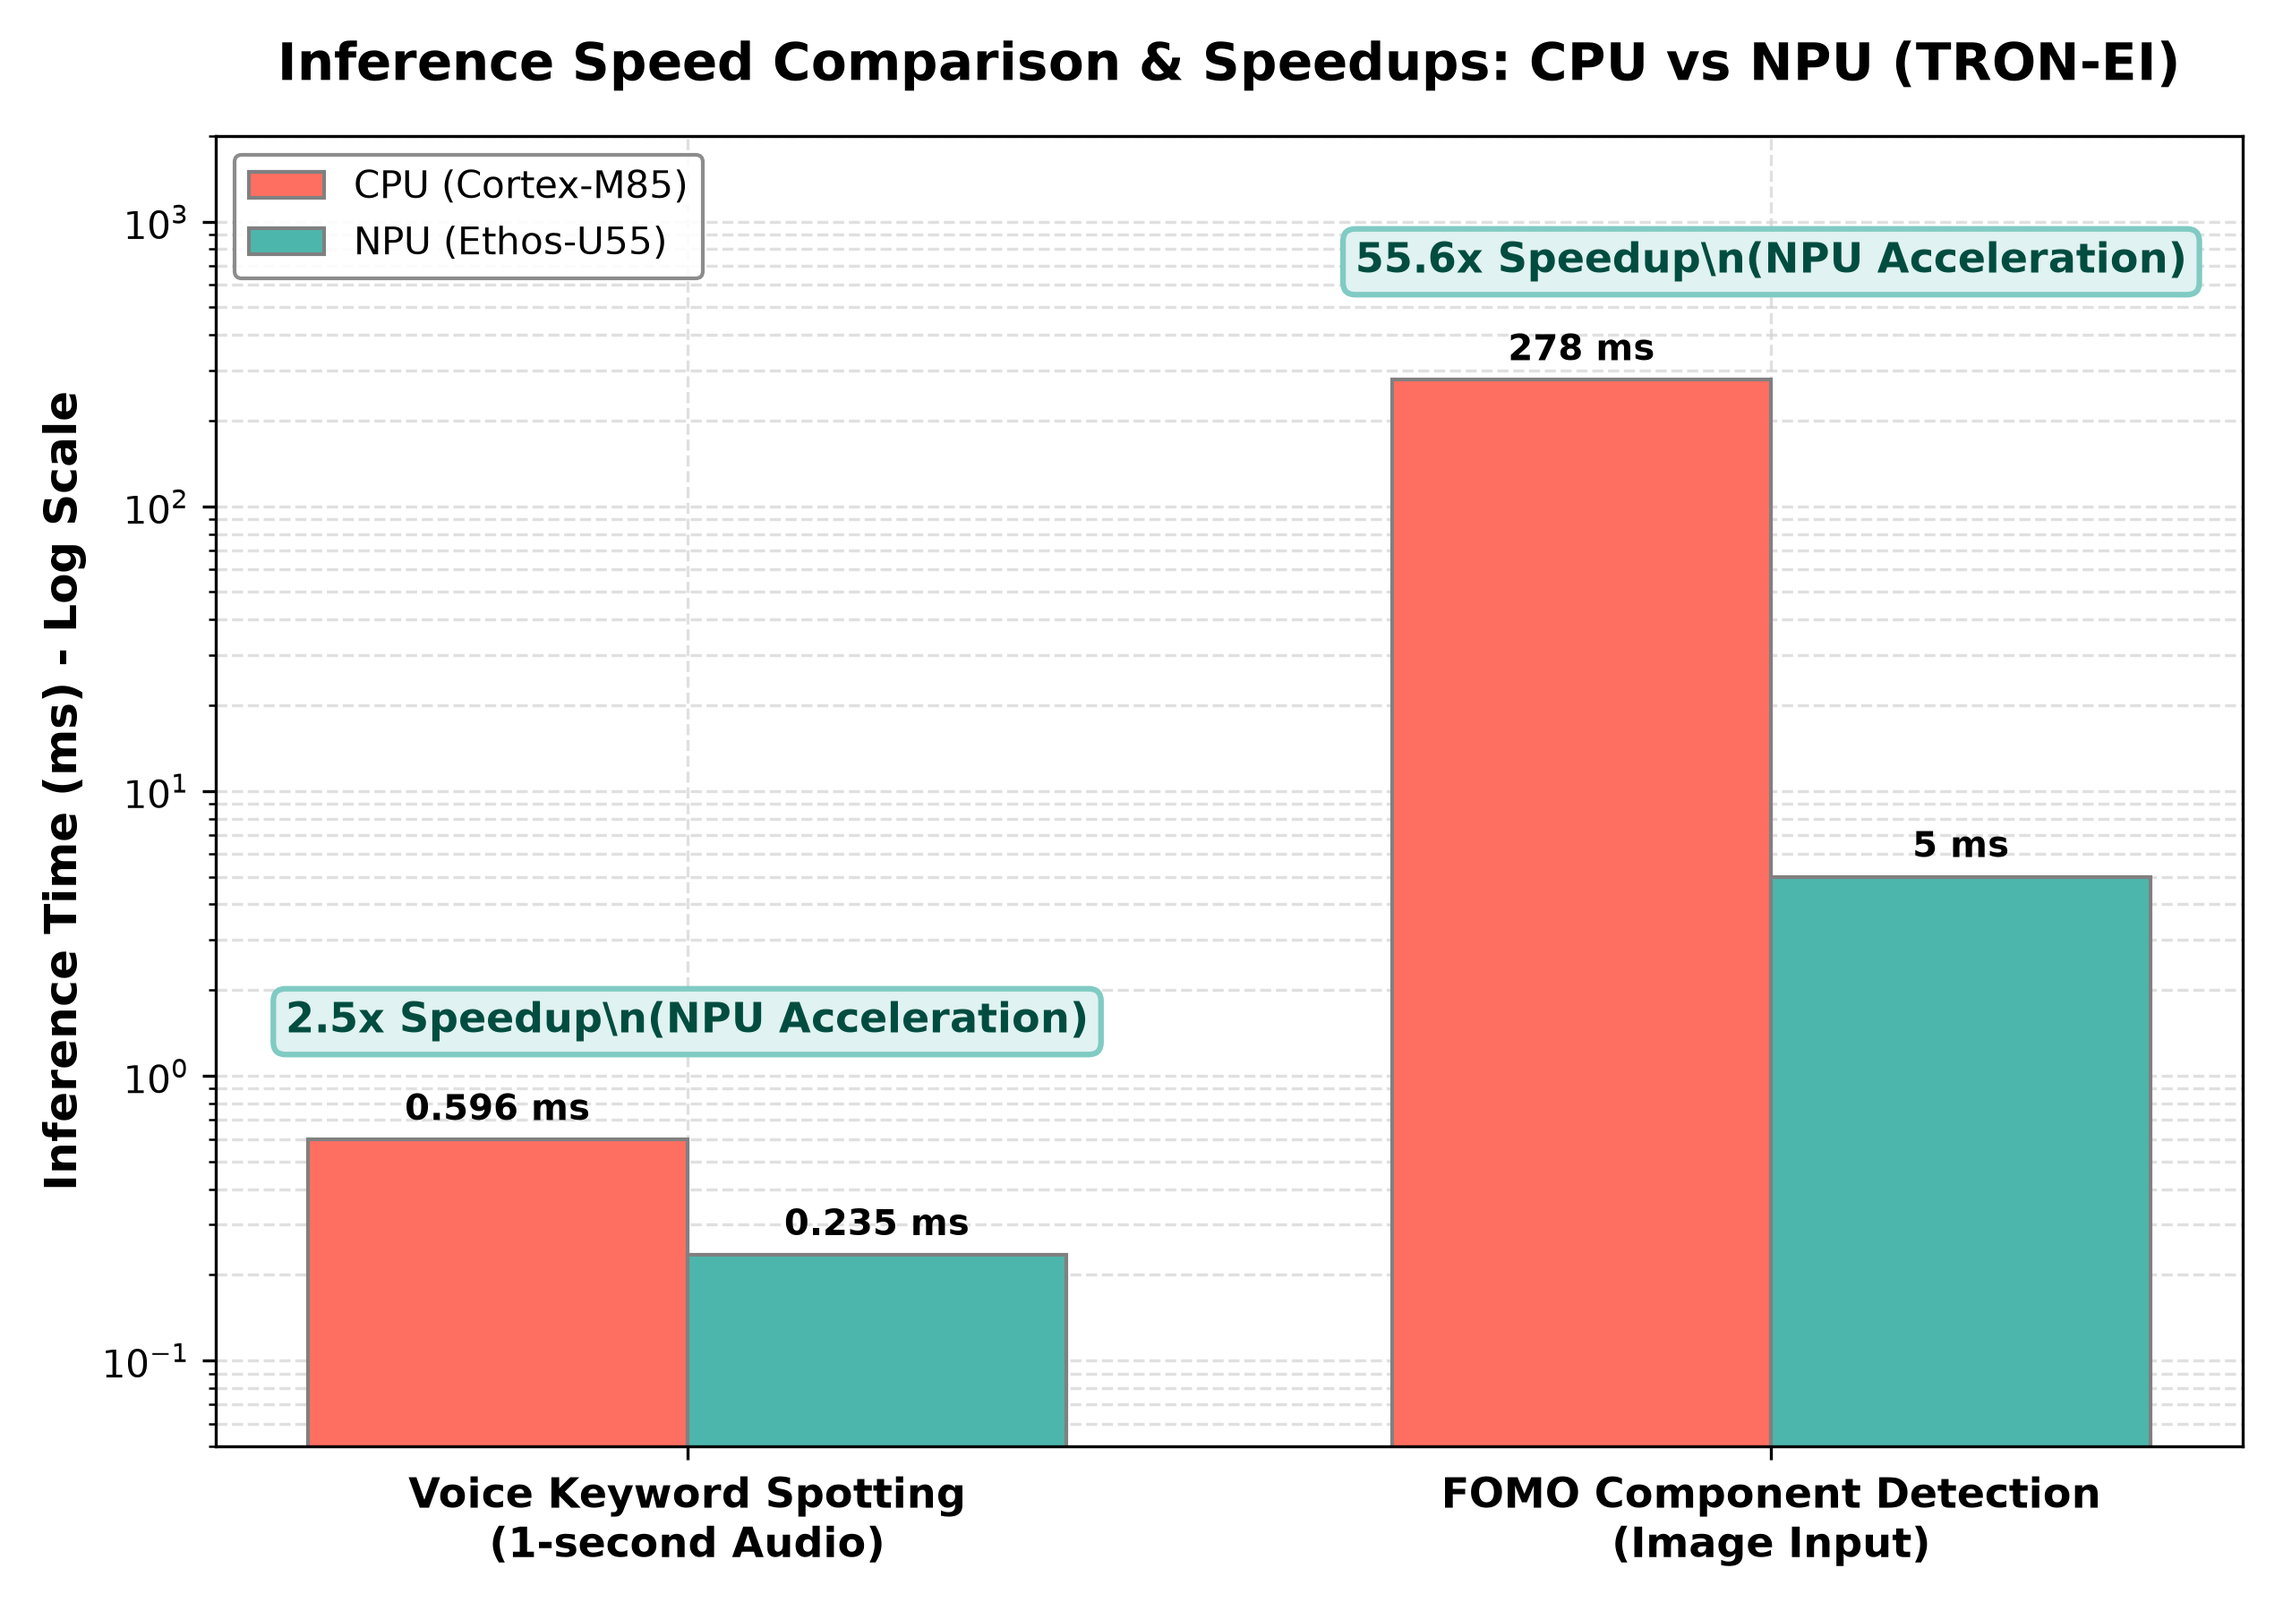
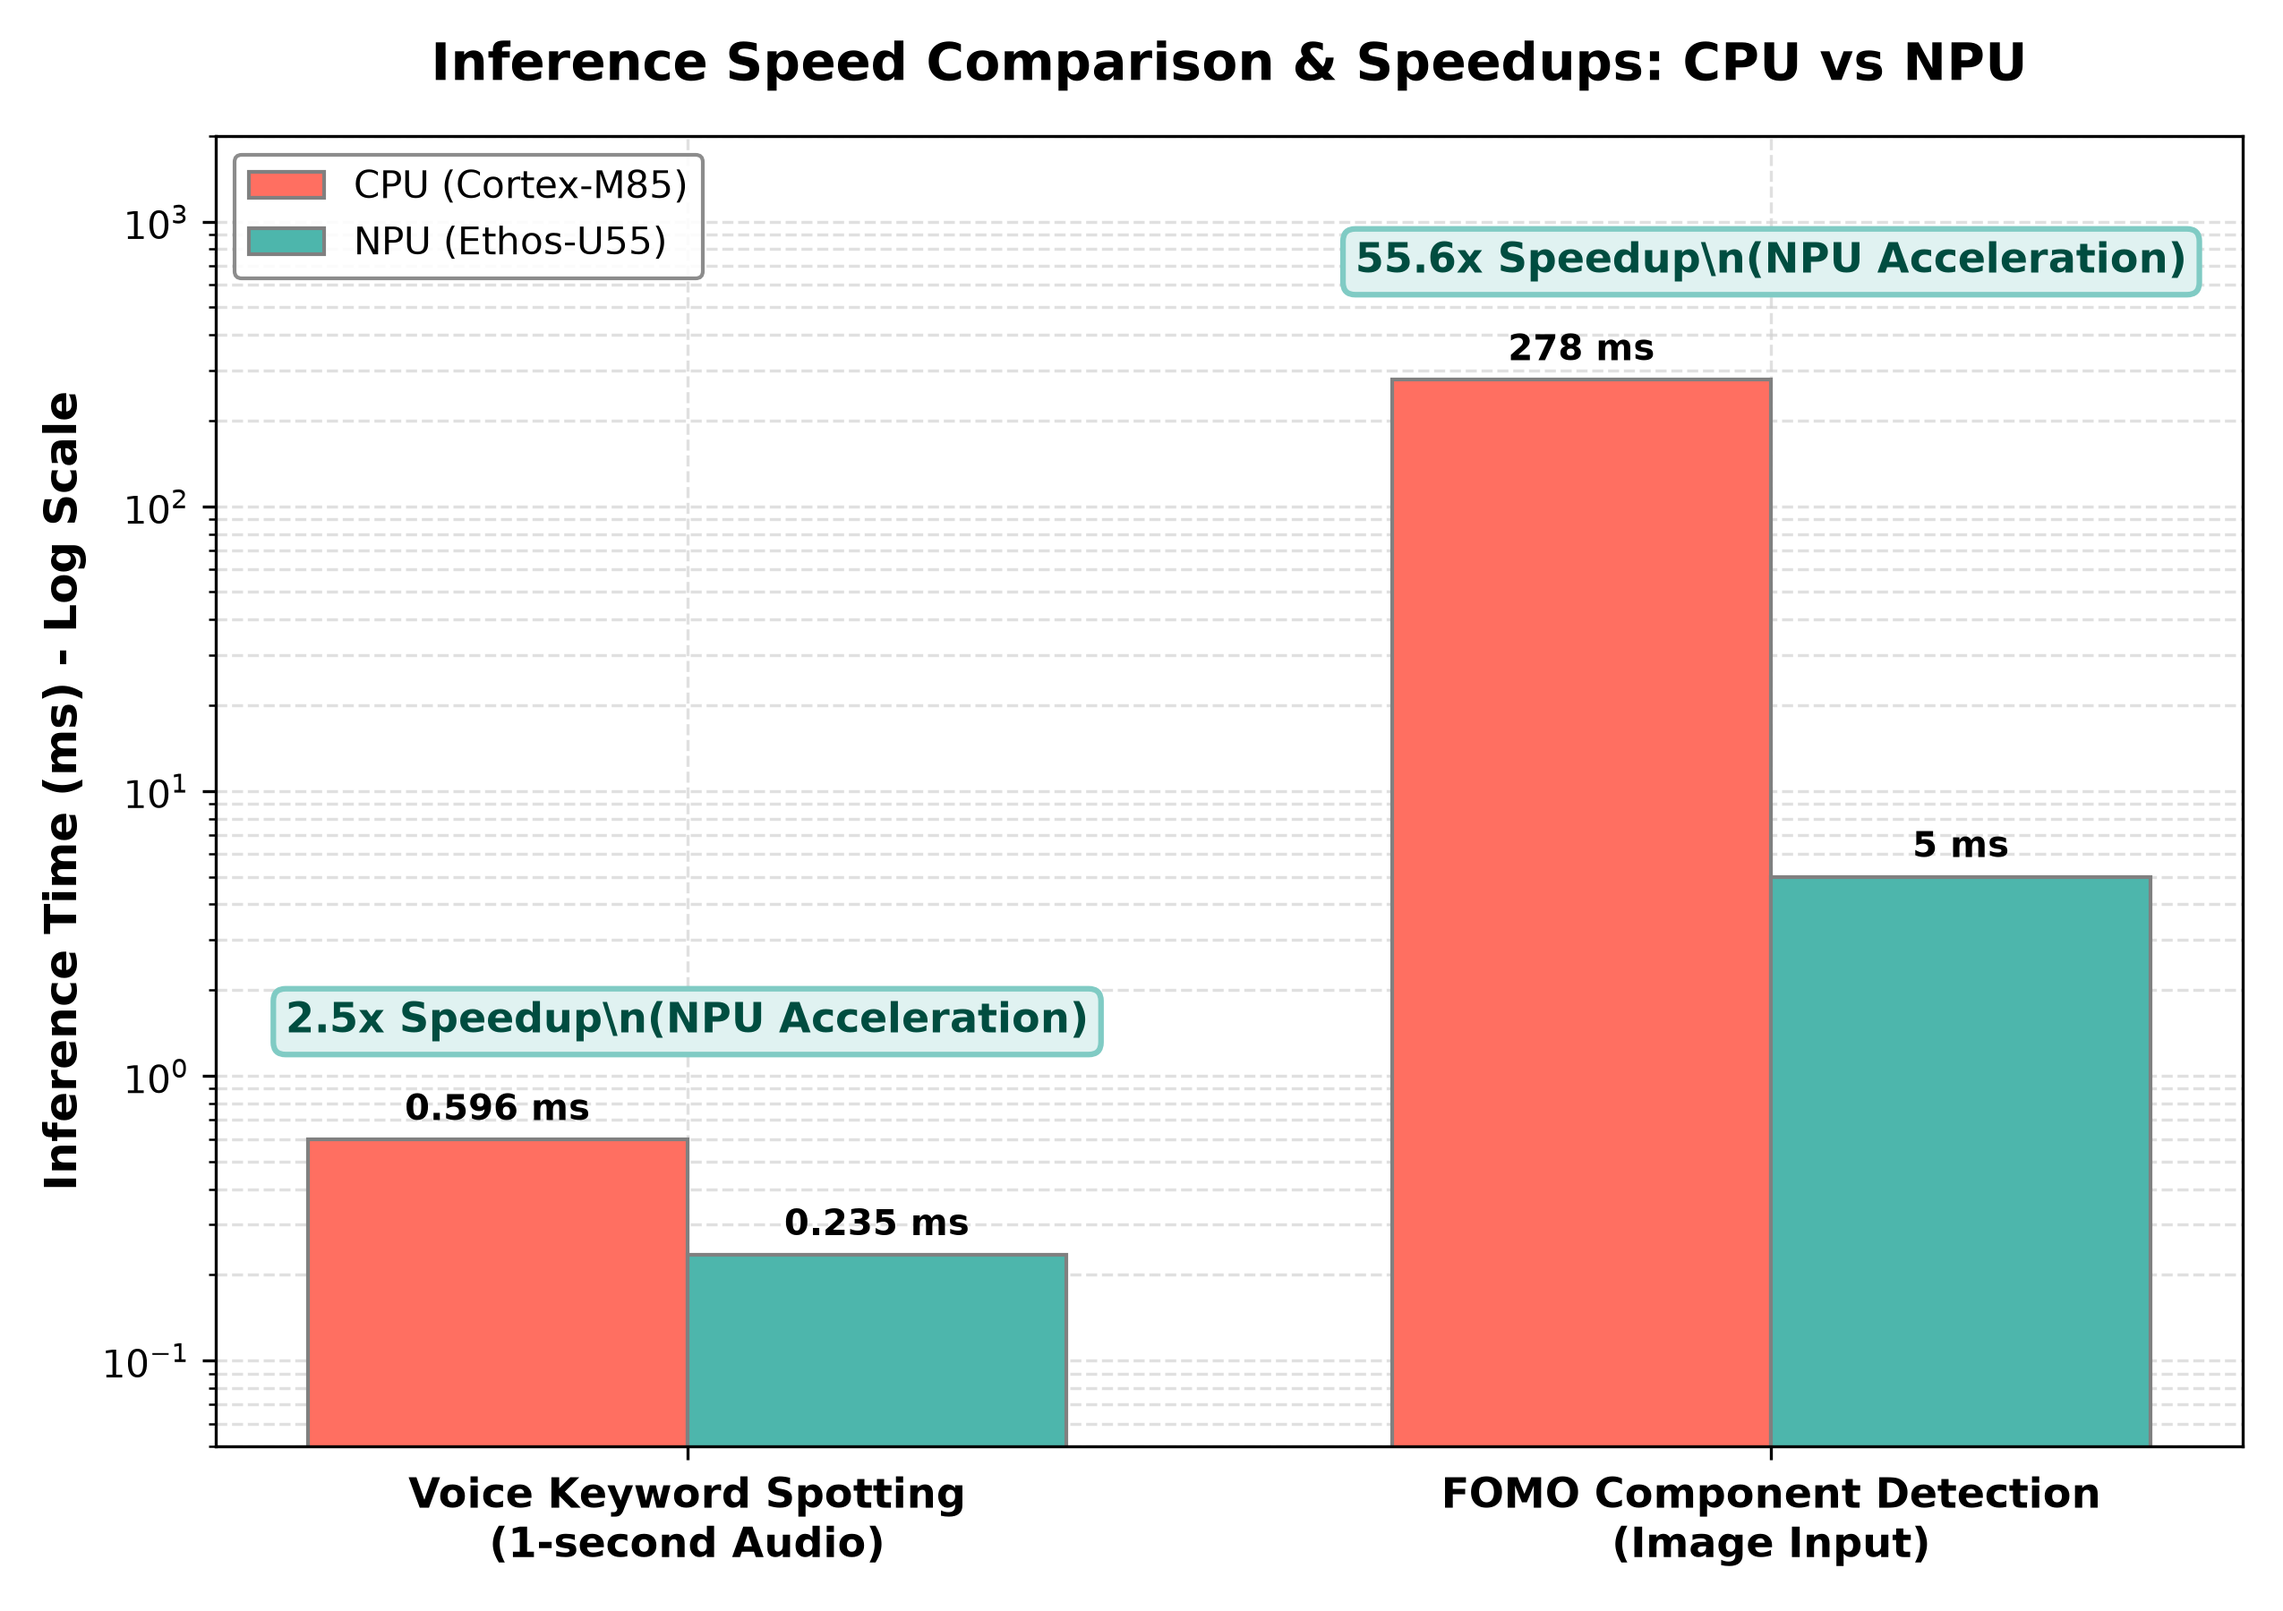
Update: Remove (TRON-EI) text from main headers, intros, and benchmark chart title

Changed region(s): [[0.1239, 0.0, 0.9604, 0.0622]]

diff --git a/README.md b/README.md
@@ -1,6 +1,6 @@
-# μT-Kernel 3.0向け エッジAI（Edge Impulse）移植用の統合ミドルウェアライブラリ (TRON-EI)
+# μT-Kernel 3.0向け エッジAI（Edge Impulse）移植用の統合ミドルウェアライブラリ
 
-本プロジェクトは、世界的なエッジAI開発プラットフォーム「**Edge Impulse**」の推論SDKをリアルタイムOS「**μT-Kernel 3.0**」に完全移植・適合させ、画像、音声、センサーデータの取得から推論までをシームレスに行うための **エッジAI統合ミドルウェアライブラリ（TRON-EI）** です。
+本プロジェクトは、世界的なエッジAI開発プラットフォーム「**Edge Impulse**」の推論SDKをリアルタイムOS「**μT-Kernel 3.0**」に完全移植・適合させ、画像、音声、センサーデータの取得から推論までをシームレスに行うための **エッジAI統合ミドルウェアライブラリ** です。
 
 TRONプログラミングコンテスト2026の **「RTOSミドルウェア部門」** の開発プロジェクトとして開発されました。
 

diff --git a/README_en.md b/README_en.md
@@ -1,6 +1,6 @@
-# Edge Impulse Integration Middleware Library for μT-Kernel 3.0 (TRON-EI)
+# Edge Impulse Integration Middleware Library for μT-Kernel 3.0
 
-This project is a high-performance **Edge AI Integration Middleware Library (TRON-EI)** running under the **μT-Kernel 3.0** real-time OS. It ports and integrates the inference SDK of the industry-standard edge AI platform, **Edge Impulse**, enabling seamless data capture, preprocessing, and real-time inference for image, audio, and motion sensor inputs.
+This project is a high-performance **Edge AI Integration Middleware Library** running under the **μT-Kernel 3.0** real-time OS. It ports and integrates the inference SDK of the industry-standard edge AI platform, **Edge Impulse**, enabling seamless data capture, preprocessing, and real-time inference for image, audio, and motion sensor inputs.
 
 Developed as a development project for the **RTOS Middleware Category** of the TRON Programming Contest 2026.
 
